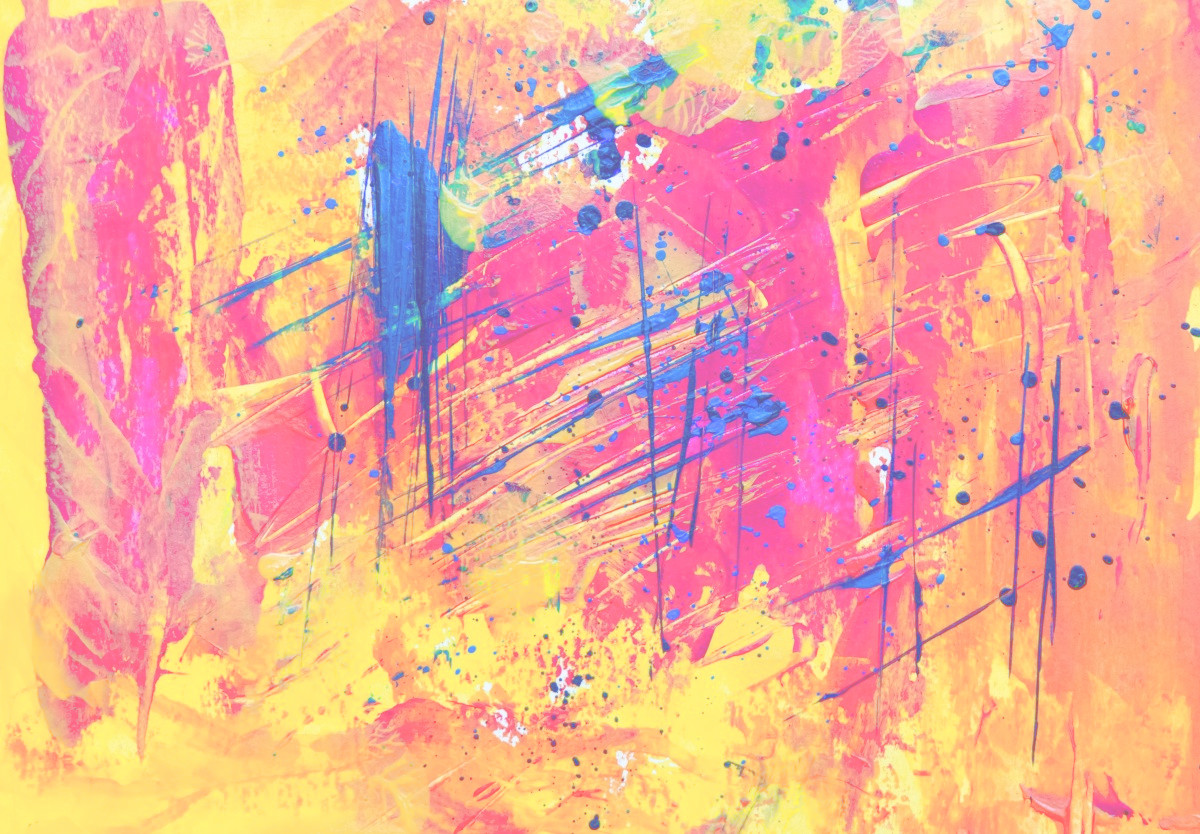
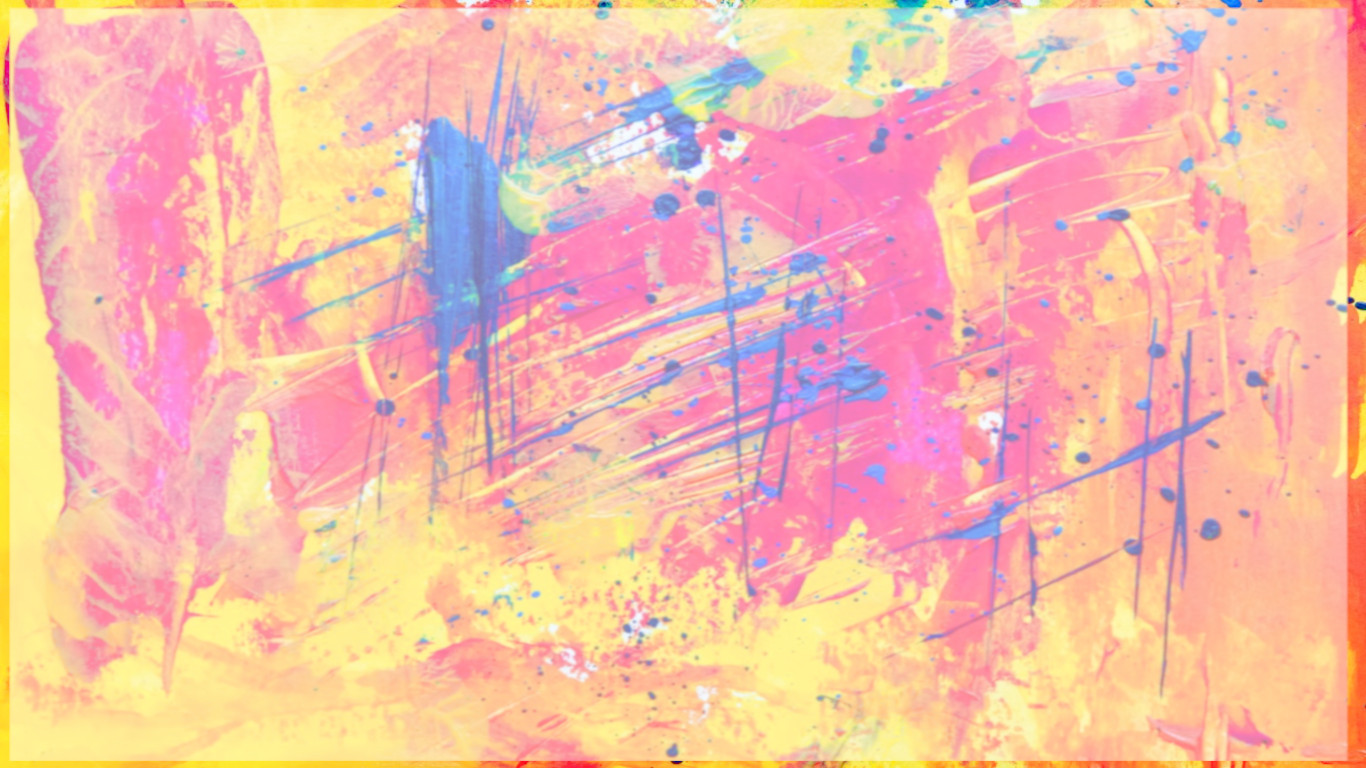
Se ajusta diseño para resolucion 1366x768

diff --git a/TP1/EntregaFinal/css/style.css b/TP1/EntregaFinal/css/style.css
@@ -1,13 +1,13 @@
 html{
   
-  margin-bottom: 3%;
-  margin-top: 3%;
+  margin-bottom: 0.5%;
+  margin-top: 0.5%;
   margin-left: 4%;
   margin-right: 4%;
 }
 
 body {
-  background-image: url("../images/fondo2.jpg");
+  background-image: url("../images/fondo3.jpg");
   background-position: center center;
   background-repeat: no-repeat;
   background-attachment: fixed;
@@ -91,4 +91,11 @@ header{
   .fondoTrans{
     background-color: rgb(213, 213, 228,0.4);
     
+  }
+  img{
+    height: 100%;
+    width: 100% 
+  }
+  .fontTimes{
+    font-family: 'Gill Sans', 'Time New Roman', Calibri, 'Trebuchet MS', sans-serif;
   }

diff --git a/TP1/EntregaFinal/index.html b/TP1/EntregaFinal/index.html
@@ -20,12 +20,8 @@
 </head>
 
 
-<header>
-   
-</header>
-
 <body>
-    <div class= "fondoTrans">
+   
 
     <div class="row">
 
@@ -133,10 +129,10 @@
 
 
 <footer class="colorAzulclaro">
-    <h4 class="blanco centrado">Interfaces de usuario e interacción - TUDAI 2021 - UNICEN</h4>
+    <h4 class="blanco centrado fontTimes">Interfaces de usuario e interacción - TUDAI 2021 - UNICEN</h4>
 </footer>
 
-</div>
+
 
 <script type="text/javascript" src="js/indexs.js"></script>
 
